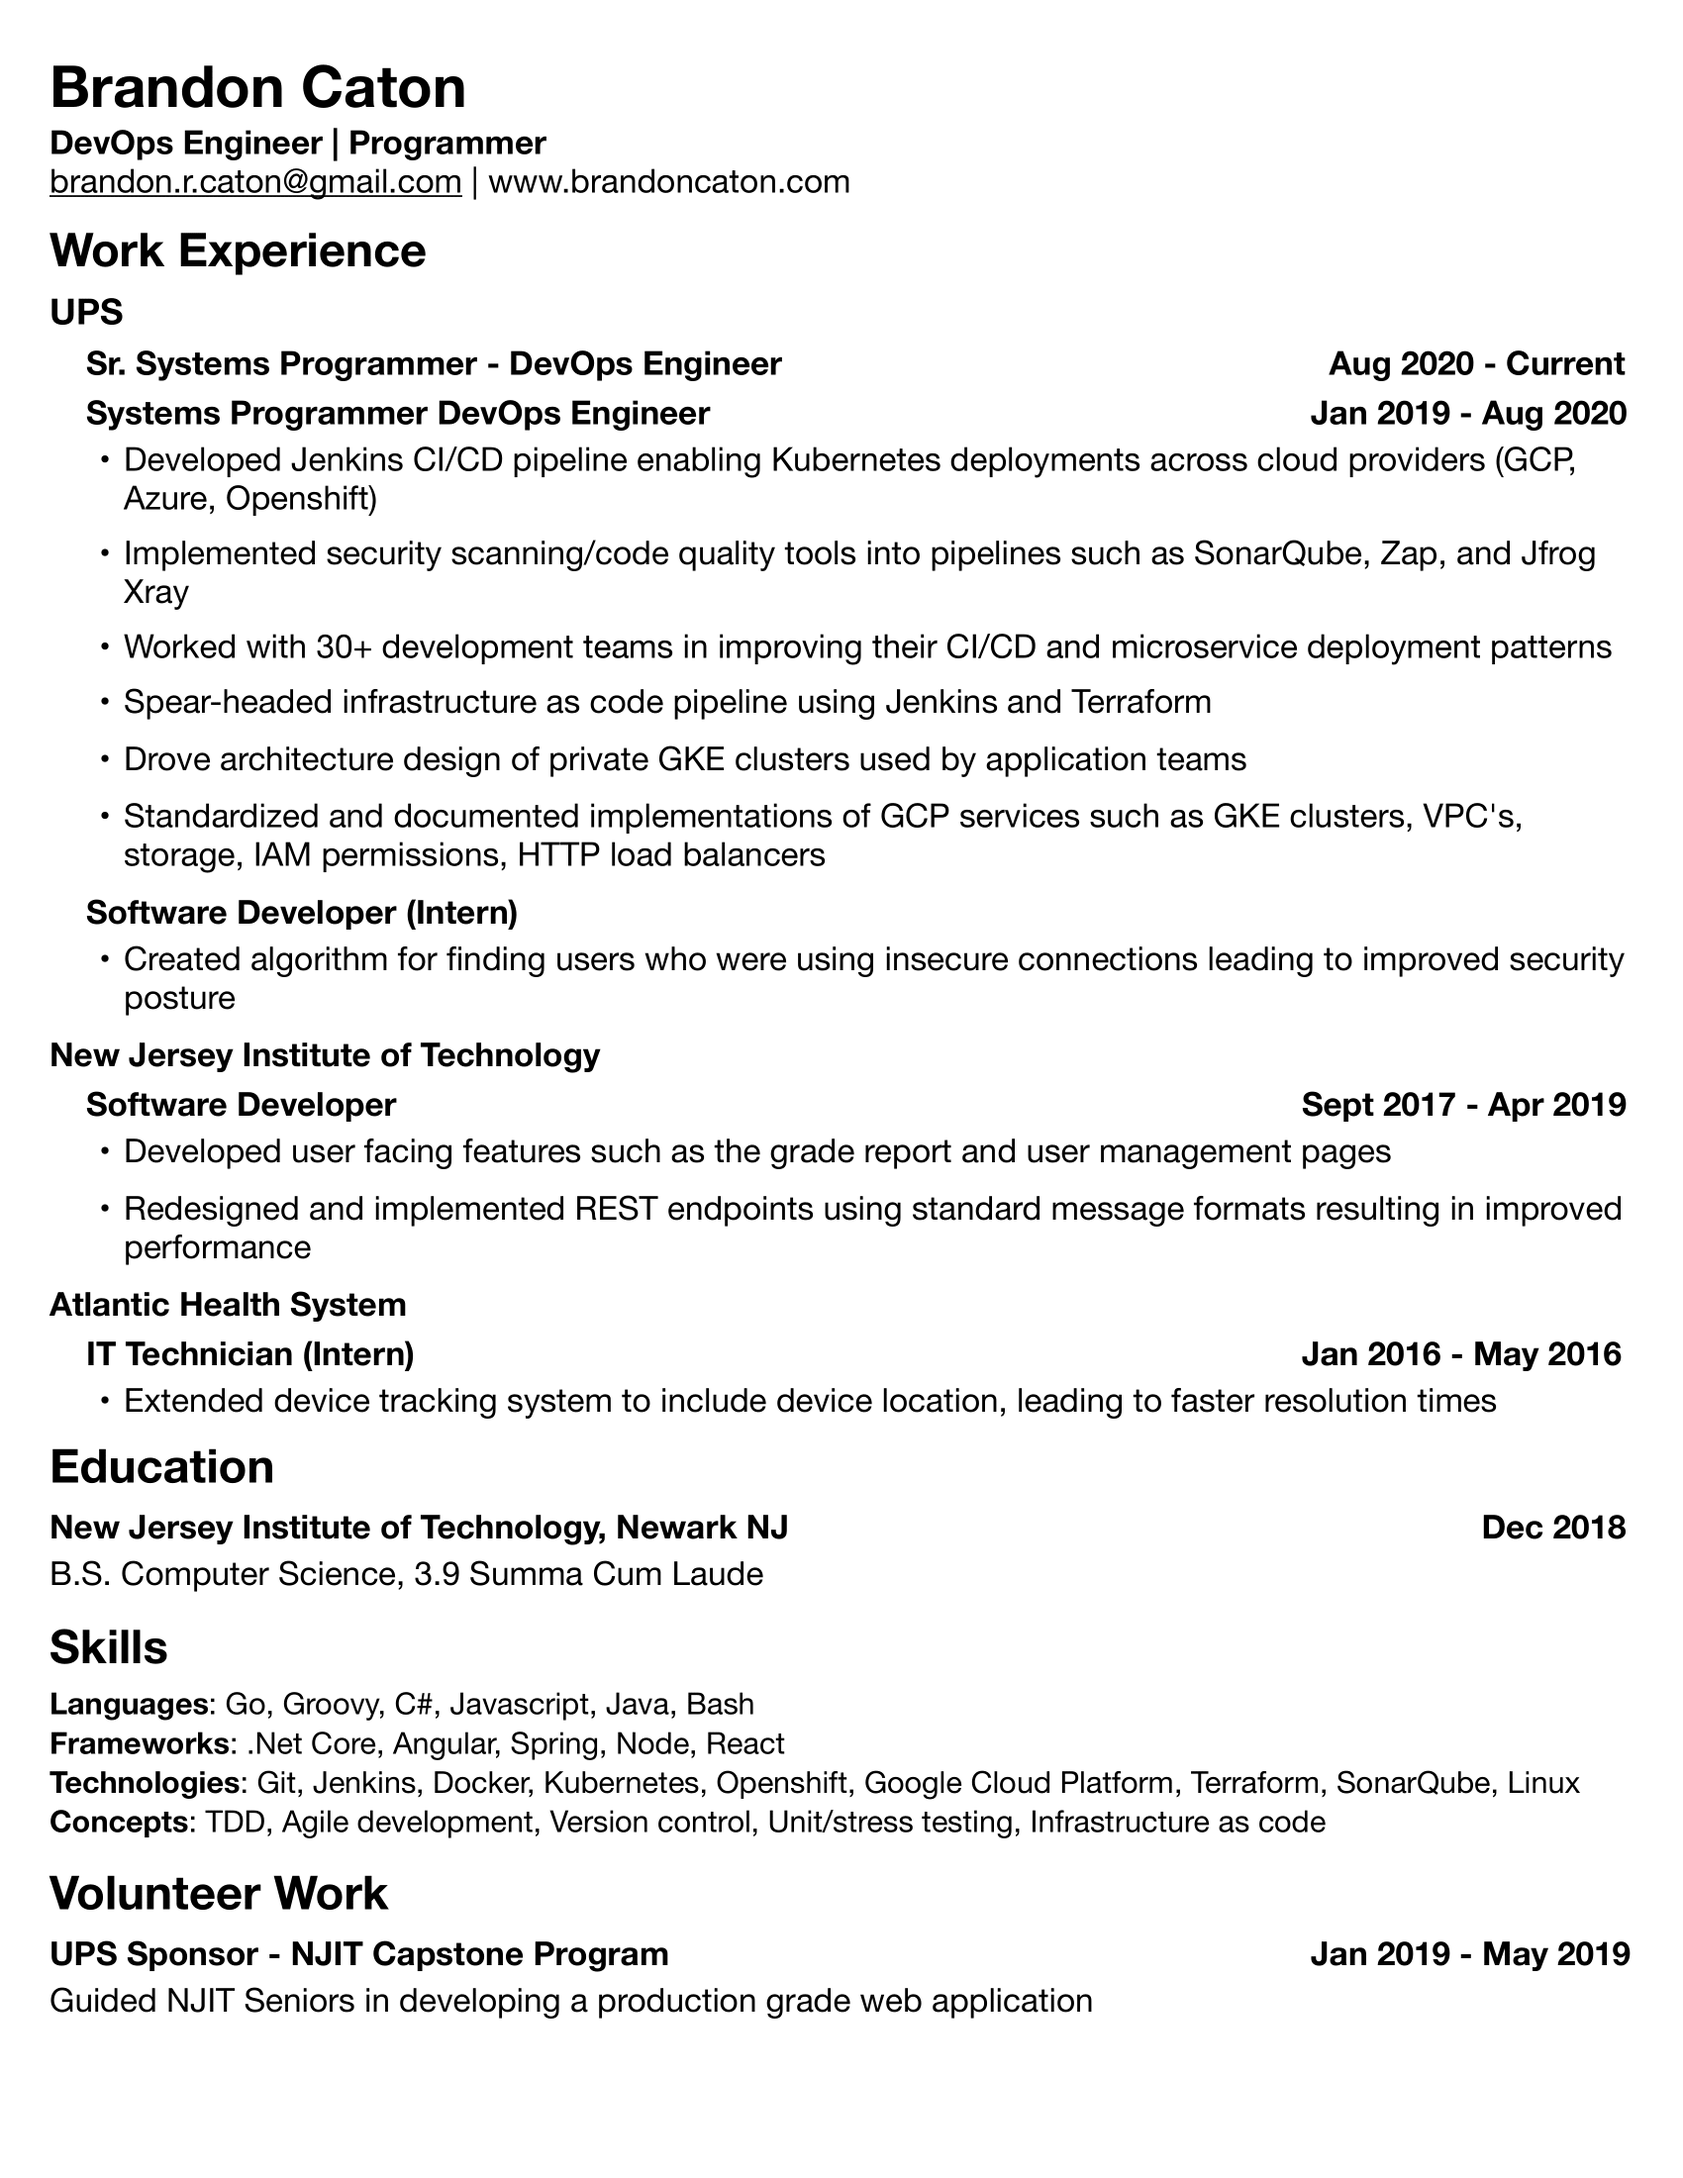
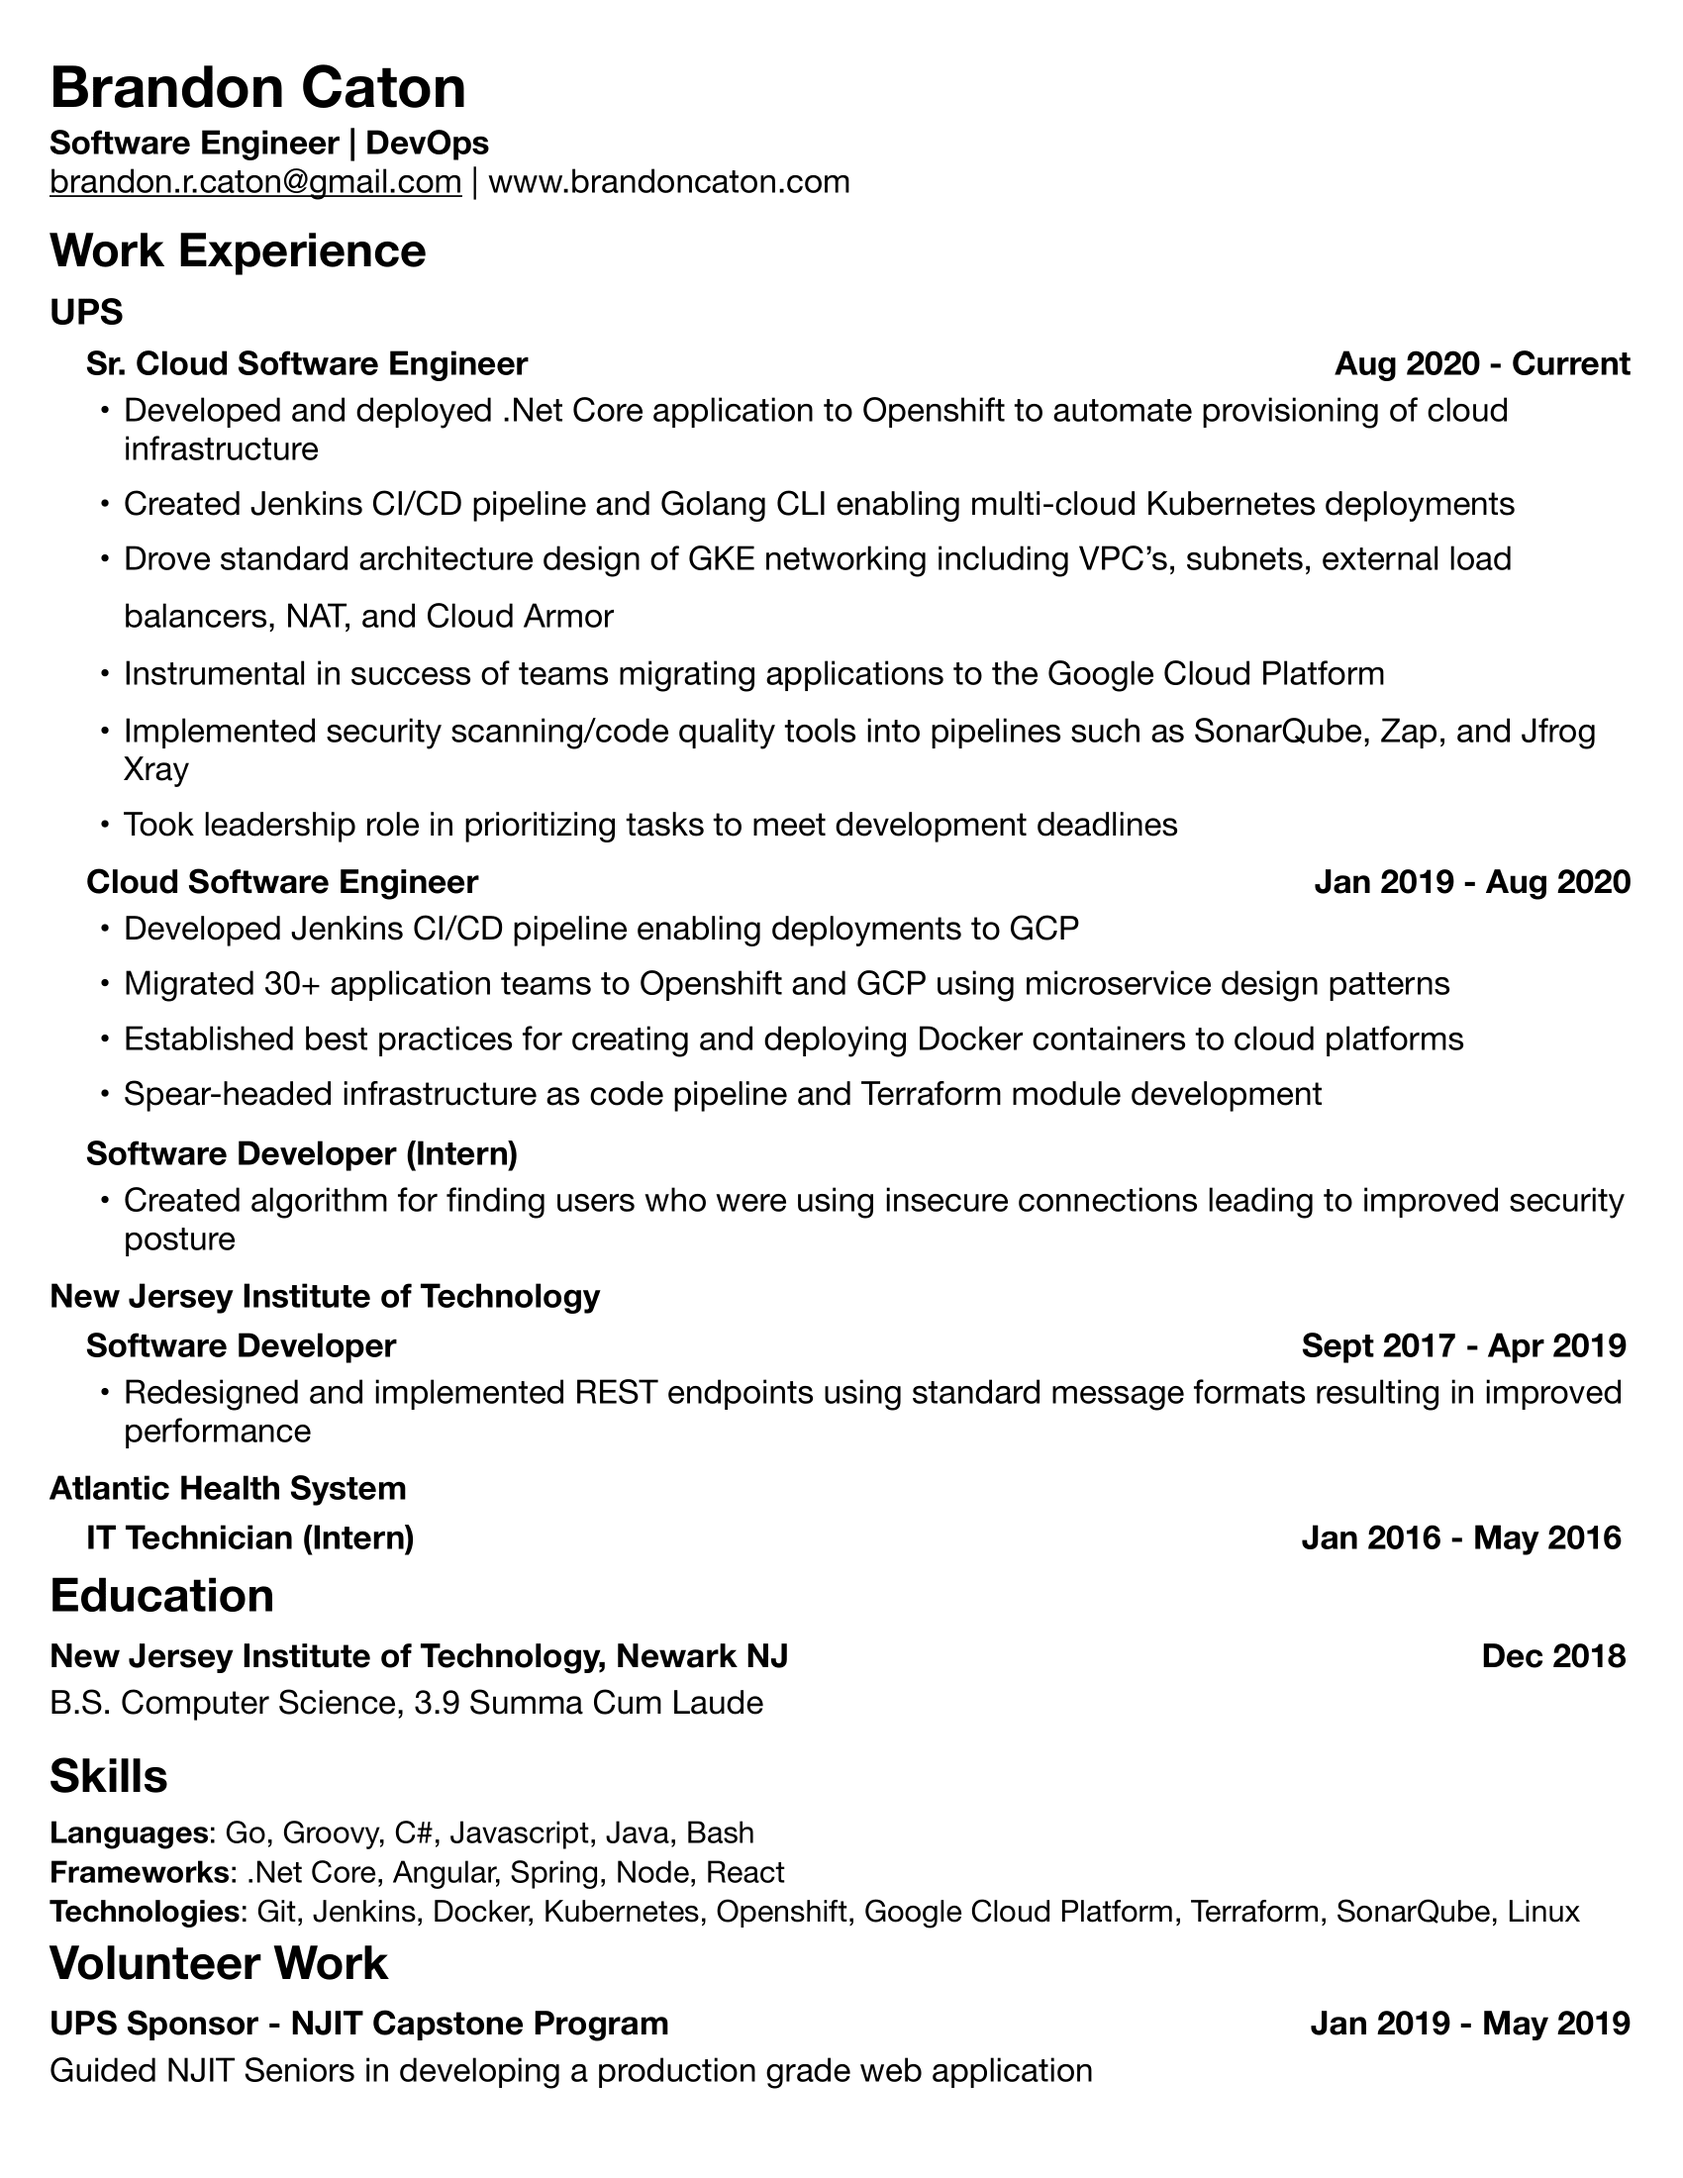
updating resume, removing work history

diff --git a/src/components/Contact.js b/src/components/Contact.js
@@ -1,6 +1,7 @@
 import React from "react";
 import Content from '../content';
 import Section from './Utilities/Section';
+import Button from './Utilities/Button';
 import SocialLinks from './Nav/SocialLinks';
 import styles from '../css/Contact.module.css';
 
@@ -8,7 +9,7 @@ function Contact() {
   return (
     <Section title="Contact" className={styles.contactContainer}>
       <div className={styles.contact}>
-        <h3 className={styles.contactDescription}>Have any questions or would like to chat? Reach out!</h3>
+        <h3 className={styles.contactDescription}>Have any questions or interested in working together? Reach out!</h3>
         <div className={styles.contactLinks}><span>{Content.email}</span><SocialLinks/></div>
       </div>
     </Section>   

diff --git a/src/content.js b/src/content.js
@@ -96,7 +96,7 @@ let Content = {
     workHistory: [
         {
             company: "UPS",
-            position: "DEVOPS ENGINEER",
+            position: "SR. CLOUD ENGINEER",
             dates: "JANURARY 2019 - CURRENT",
             image: "ups-logo.png",
             description: [

diff --git a/src/components/Main.js b/src/components/Main.js
@@ -10,7 +10,7 @@ function Main() {
       <div className={styles.main}>
           <Landing></Landing>
           <Technologies></Technologies>
-          <WorkHistory></WorkHistory>
+          {/* <WorkHistory></WorkHistory> */}
           <Contact></Contact>
       </div>
   );
